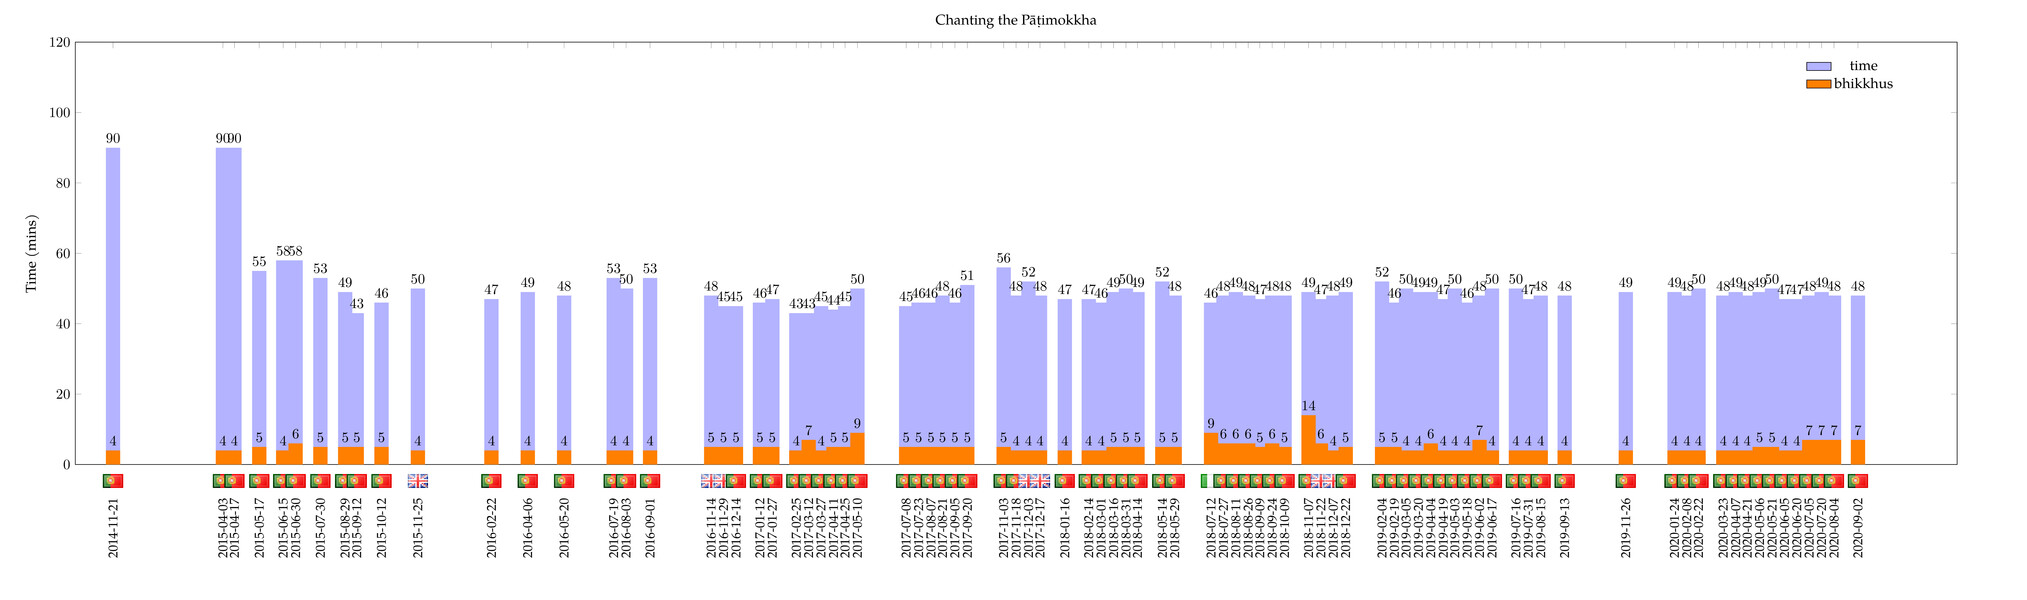
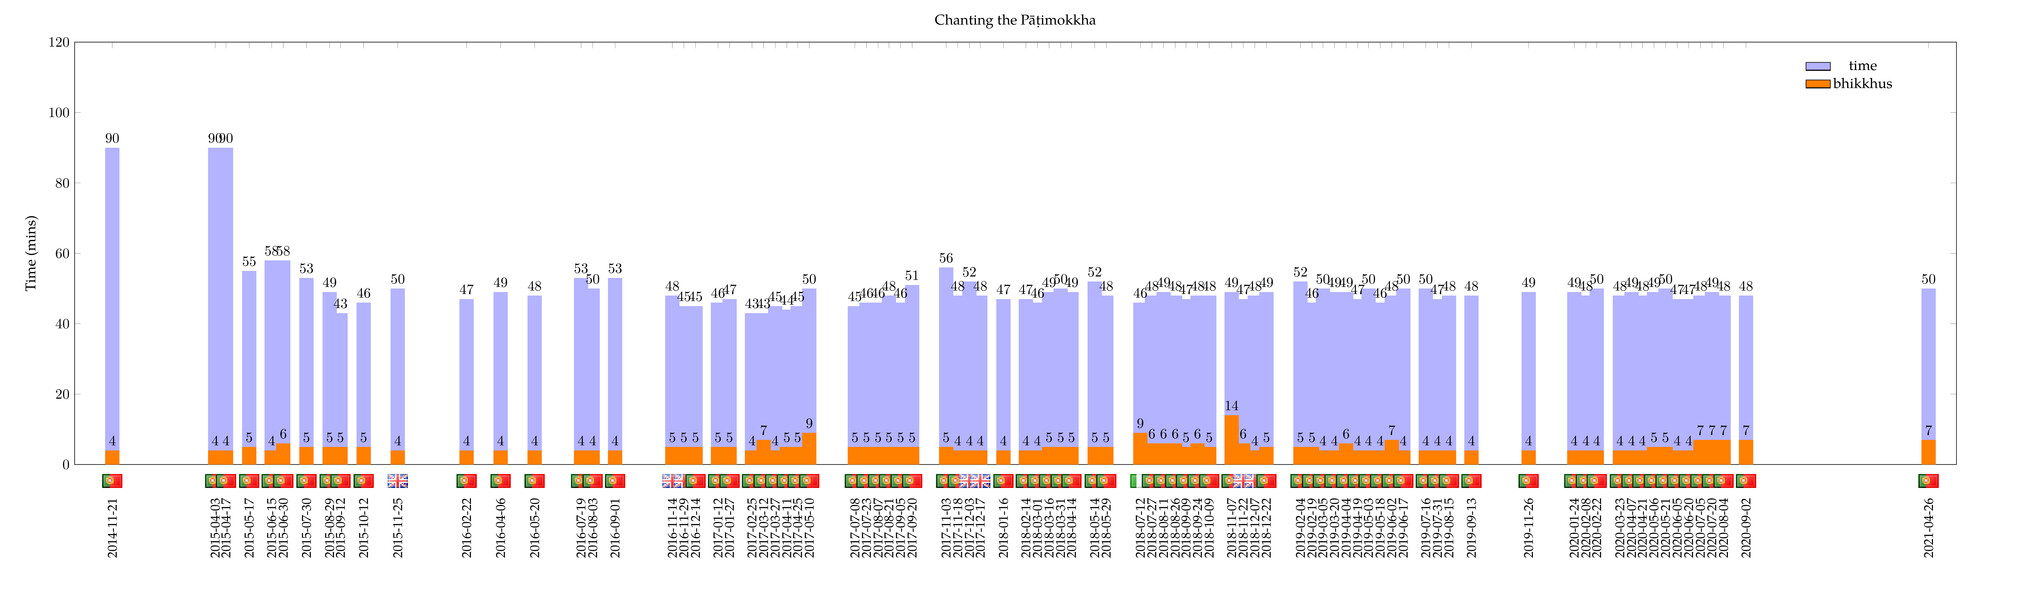
upd

diff --git a/src/patimokkha-chanting-chart.tex b/src/patimokkha-chanting-chart.tex
@@ -58,7 +58,7 @@
     ylabel=Time (mins),
     xtick=data,
     xmin=2014-11-20,
-    xmax=2020-12-31,
+    xmax=2021-06-01,
     enlarge x limits={rel=0.02,lower},
     xticklabel style={yshift=-20pt,rotate=90,anchor=east,font=\small},
     xticklabel={\year-\month-\day},
@@ -173,6 +173,7 @@
   \node [anchor=south, yshift=-20pt] at (axis cs:2020-07-20,0) {\includegraphics[width=5mm]{pt}};
   \node [anchor=south, yshift=-20pt] at (axis cs:2020-08-04,0) {\includegraphics[width=5mm]{pt}};
   \node [anchor=south, yshift=-20pt] at (axis cs:2020-09-02,0) {\includegraphics[width=5mm]{pt}};
+  \node [anchor=south, yshift=-20pt] at (axis cs:2021-04-26,0) {\includegraphics[width=5mm]{pt}};
 
 \end{axis}
 \end{tikzpicture}
